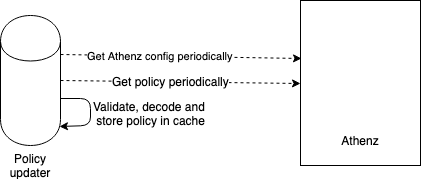
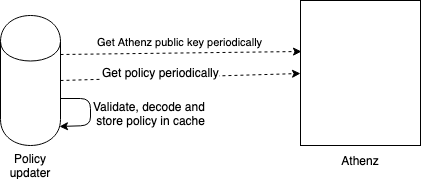
update document

Changed region(s): [[0.1853, 0.1955, 0.7102, 0.3631], [0.1544, 0.3631, 0.7102, 0.5028], [0.7102, 0.7542, 1.0, 0.9497]]

diff --git a/README.md b/README.md
@@ -16,7 +16,7 @@ To initialize policy updater.
 daemon, err := providerd.New(
     providerd.AthenzURL("www.athenz.io"), // set athenz URL
     providerd.AthenzDomains("domain1", "domain2" ... "domain N"), // set athenz domains
-    providerd.AthenzConfRefreshDuration(time.Hour * 24), // set athenz config refresh duration
+    providerd.PubkeyRefreshDuration(time.Hour * 24), // set athenz public key refresh duration
     providerd.PolicyRefreshDuration(time.Hour), // set policy refresh duration
 )
 if err != nil {
@@ -39,17 +39,17 @@ if err := daemon.VerifyRoleToken(ctx, roleTok, act, res); err != nil {
 
 ## How it works
 
-To do the authentication and authorization check, the user needs to specify which [domain data](https://github.com/yahoo/athenz/blob/master/docs/data_model.md#data-model) to be cache. The policy updater will periodically refresh the policies and Athenz config data(Public key data) to [verify and decode]((https://github.com/yahoo/athenz/blob/master/docs/zpu_policy_file.md#zts-signature-validation)) the domain data. The verified domain data will cache into the memory, and use for authentication and authorization check.
+To do the authentication and authorization check, the user needs to specify which [domain data](https://github.com/yahoo/athenz/blob/master/docs/data_model.md#data-model) to be cache. The policy updater will periodically refresh the policies and Athenz public key data to [verify and decode]((https://github.com/yahoo/athenz/blob/master/docs/zpu_policy_file.md#zts-signature-validation)) the domain data. The verified domain data will cache into the memory, and use for authentication and authorization check.
 
-The policy updater contains two sub-module, Athenz configration daemon and Athenz policy daemon.
+The policy updater contains two sub-module, Athenz pubkey daemon (pubkeyd) and Athenz policy daemon (policyd).
 
-### Athenz configration daemon
+### Athenz pubkey daemon
 
-Athenz configuration daemon (confd) is responsible for periodically update the Athenz configuration data from Athenz server. Athenz configuration data includes the public keys of ZTS and ZMS server, used to verify the policy data received from Athenz policy daemon and verify the role token when verifing role token.
+Athenz pubkey daemon (pubkeyd) is responsible for periodically update the Athenz public key data from Athenz server to verify the policy data received from Athenz policy daemon and verify the role token.
 
 ### Athenz policy daemon
 
-Athenz policy daemon (policyd) is responsible for periodically update the policy data of specified Athenz domain from Athenz server. The received policy data will be verified using the public key got from confd, and cache into memory. Whenever user requesting for the access check, the verification check will be used instead of asking Athenz server everytime.
+Athenz policy daemon (policyd) is responsible for periodically update the policy data of specified Athenz domain from Athenz server. The received policy data will be verified using the public key got from pubkeyd, and cache into memory. Whenever user requesting for the access check, the verification check will be used instead of asking Athenz server everytime.
 
 ## Configuratrion
 
@@ -59,12 +59,12 @@ The policy updater uses functional options pattern to initialize the instance. A
 |---------------------------|---------------------------------------------------------------------------------------------------------------------|-------------------------|----------|------------------------|
 | AthenzURL                 | The Athenz server URL                                                                                               | "www.athenz.com/zts/v1" | No       |                        |
 | AthenzDomains             | Athenz domain name of Policy cache                                                                                  |                         | Yes      | "domName1", "domName2" |
-| Transport                 | The HTTP transport for getting policy data and Athenz config                                                        | nil                     | No       |                        |
+| Transport                 | The HTTP transport for getting policy data and Athenz public key data                                               | nil                     | No       |                        |
 | CacheExp                  | The TTL of the success cache                                                                                        | 1 Minute                | No       |                        |
-| AthenzConfRefreshDuration | The refresh duration to update the Athenz configuration data                                                        | 24 Hours                | No       |                        |
-| AthenzConfSysAuthDomain   | System authority domain name to retrieve Athenz configuration data                                                  | sys.auth                | No       |                        |
-| AthenzConfEtagExpTime     | ETag cache TTL of Athenz configuration data                                                                         | 168 Hours (1 Week)      | No       |                        |
-| AthenzConfEtagFlushDur    | ETag cache purge duration                                                                                           | 84 Hours                | No       |                        |
+| PubkeyRefreshDuration     | The refresh duration to update the Athenz public key data                                                           | 24 Hours                | No       |                        |
+| PubkeySysAuthDomain       | System authority domain name to retrieve Athenz public key data                                                     | sys.auth                | No       |                        |
+| PubkeyEtagExpTime         | ETag cache TTL of Athenz public key  data                                                                           | 168 Hours (1 Week)      | No       |                        |
+| PubkeyEtagFlushDur        | ETag cache purge duration                                                                                           | 84 Hours                | No       |                        |
 | PolicyRefreshDuration     | The refresh duration to update Athenz policy data                                                                   | 30 Minutes              | No       |                        |
 | PolicyExpireMargin        | The expire margin to update the policy data. It forces update the policy data before the policy expiration margin. | 3 Hours                 | No       |                        |
 | PolicyEtagExpTime         | ETag cache TTL of policy data                                                                                       | 24 Hours                | No       |                        |
